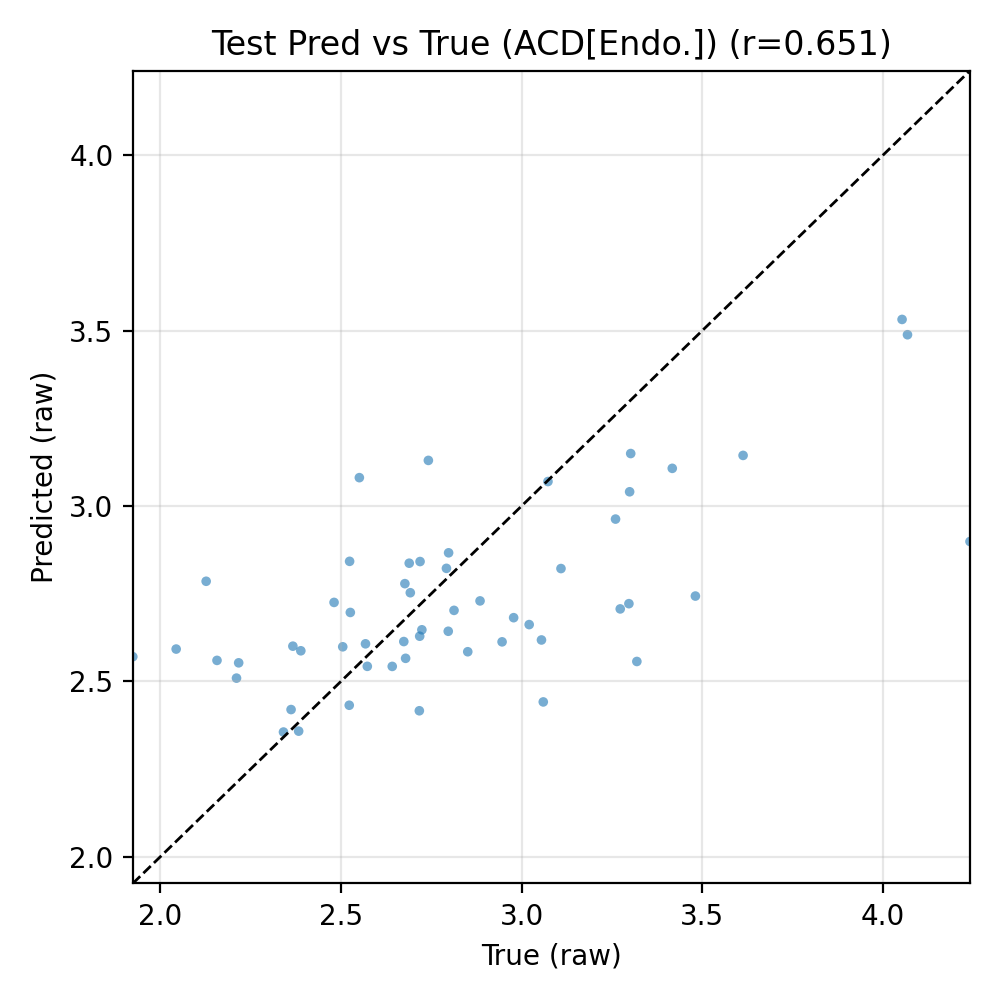
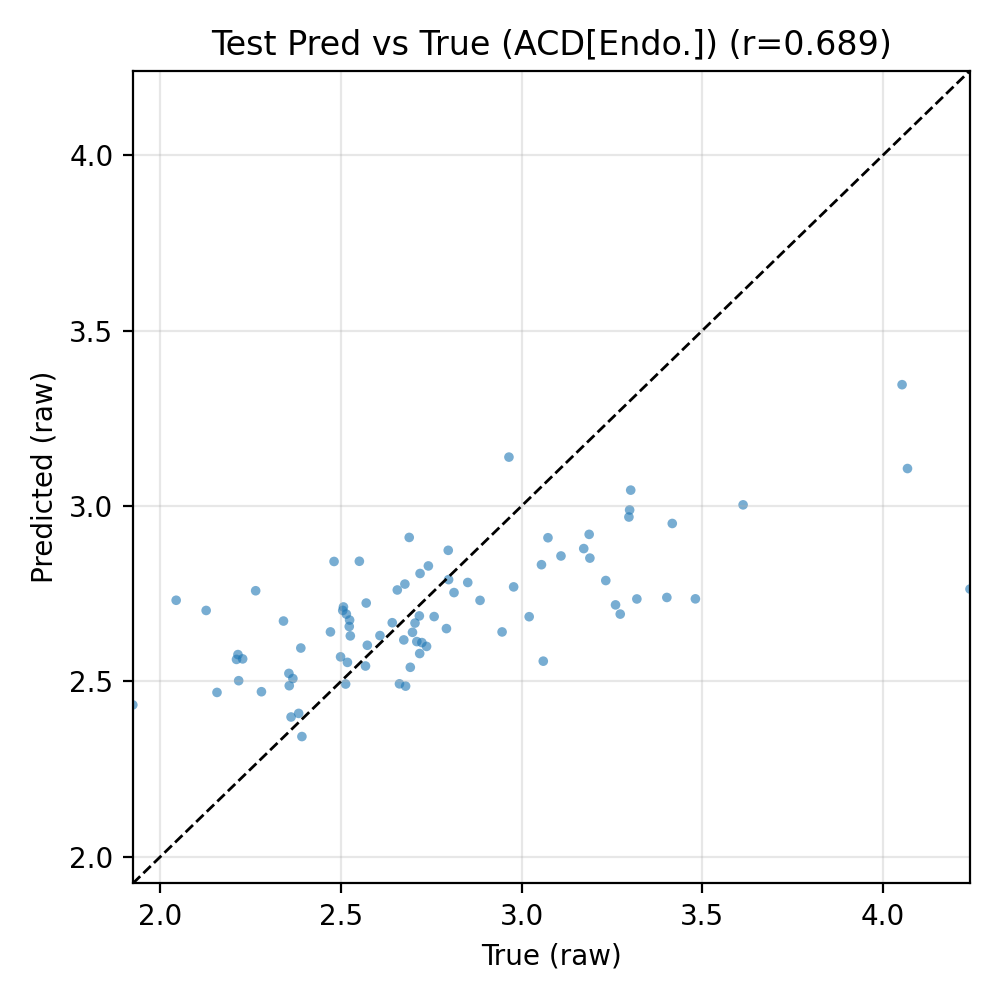
Document best ACD fusion metrics and add scatter

diff --git a/slit-project/code/38_multitarget_fusion_resnet50.py b/slit-project/code/38_multitarget_fusion_resnet50.py
@@ -7,6 +7,7 @@ ACD regression with fusion of all views using ResNet-50.
 - Regression head outputs the target(s) in TARGET_COLS (currently ACD only).
 - Patient-grouped split, target standardization, MSE loss, cosine LR, EMA, early stopping.
 """
+# Best run: Val MSE 0.6486, Test MSE 0.5554, Test MAE(raw) 0.2587, Test r 0.6893 (ResNet-50 MIL attention, mixup 0.2).
 # Best ACD config: MIL attention, LR 5e-4, wd 5e-3, patience 6, mixup 0.2, val/test 0.15/0.15, no erasing.
 
 import argparse
@@ -55,7 +56,7 @@ def mixup_batch(imgs: torch.Tensor, targets: torch.Tensor, alpha: float):
 SOURCE_CSV = "ready_for_training_clustered_anatomical_with_means.csv"
 CROP_ROOT = Path("data/center_roi_images/processed_images_448")
 # Single-target ACD regression; adjust list to add more targets later.
-TARGET_COLS = ["ACD[Endo.]"]
+TARGET_COLS = ["ACD[Endo.]", "TIA500"]
 MIN_VIEWS = 1
 MAX_VIEWS = 15  # cap views to save memory
 IMG_SIZE = 224
